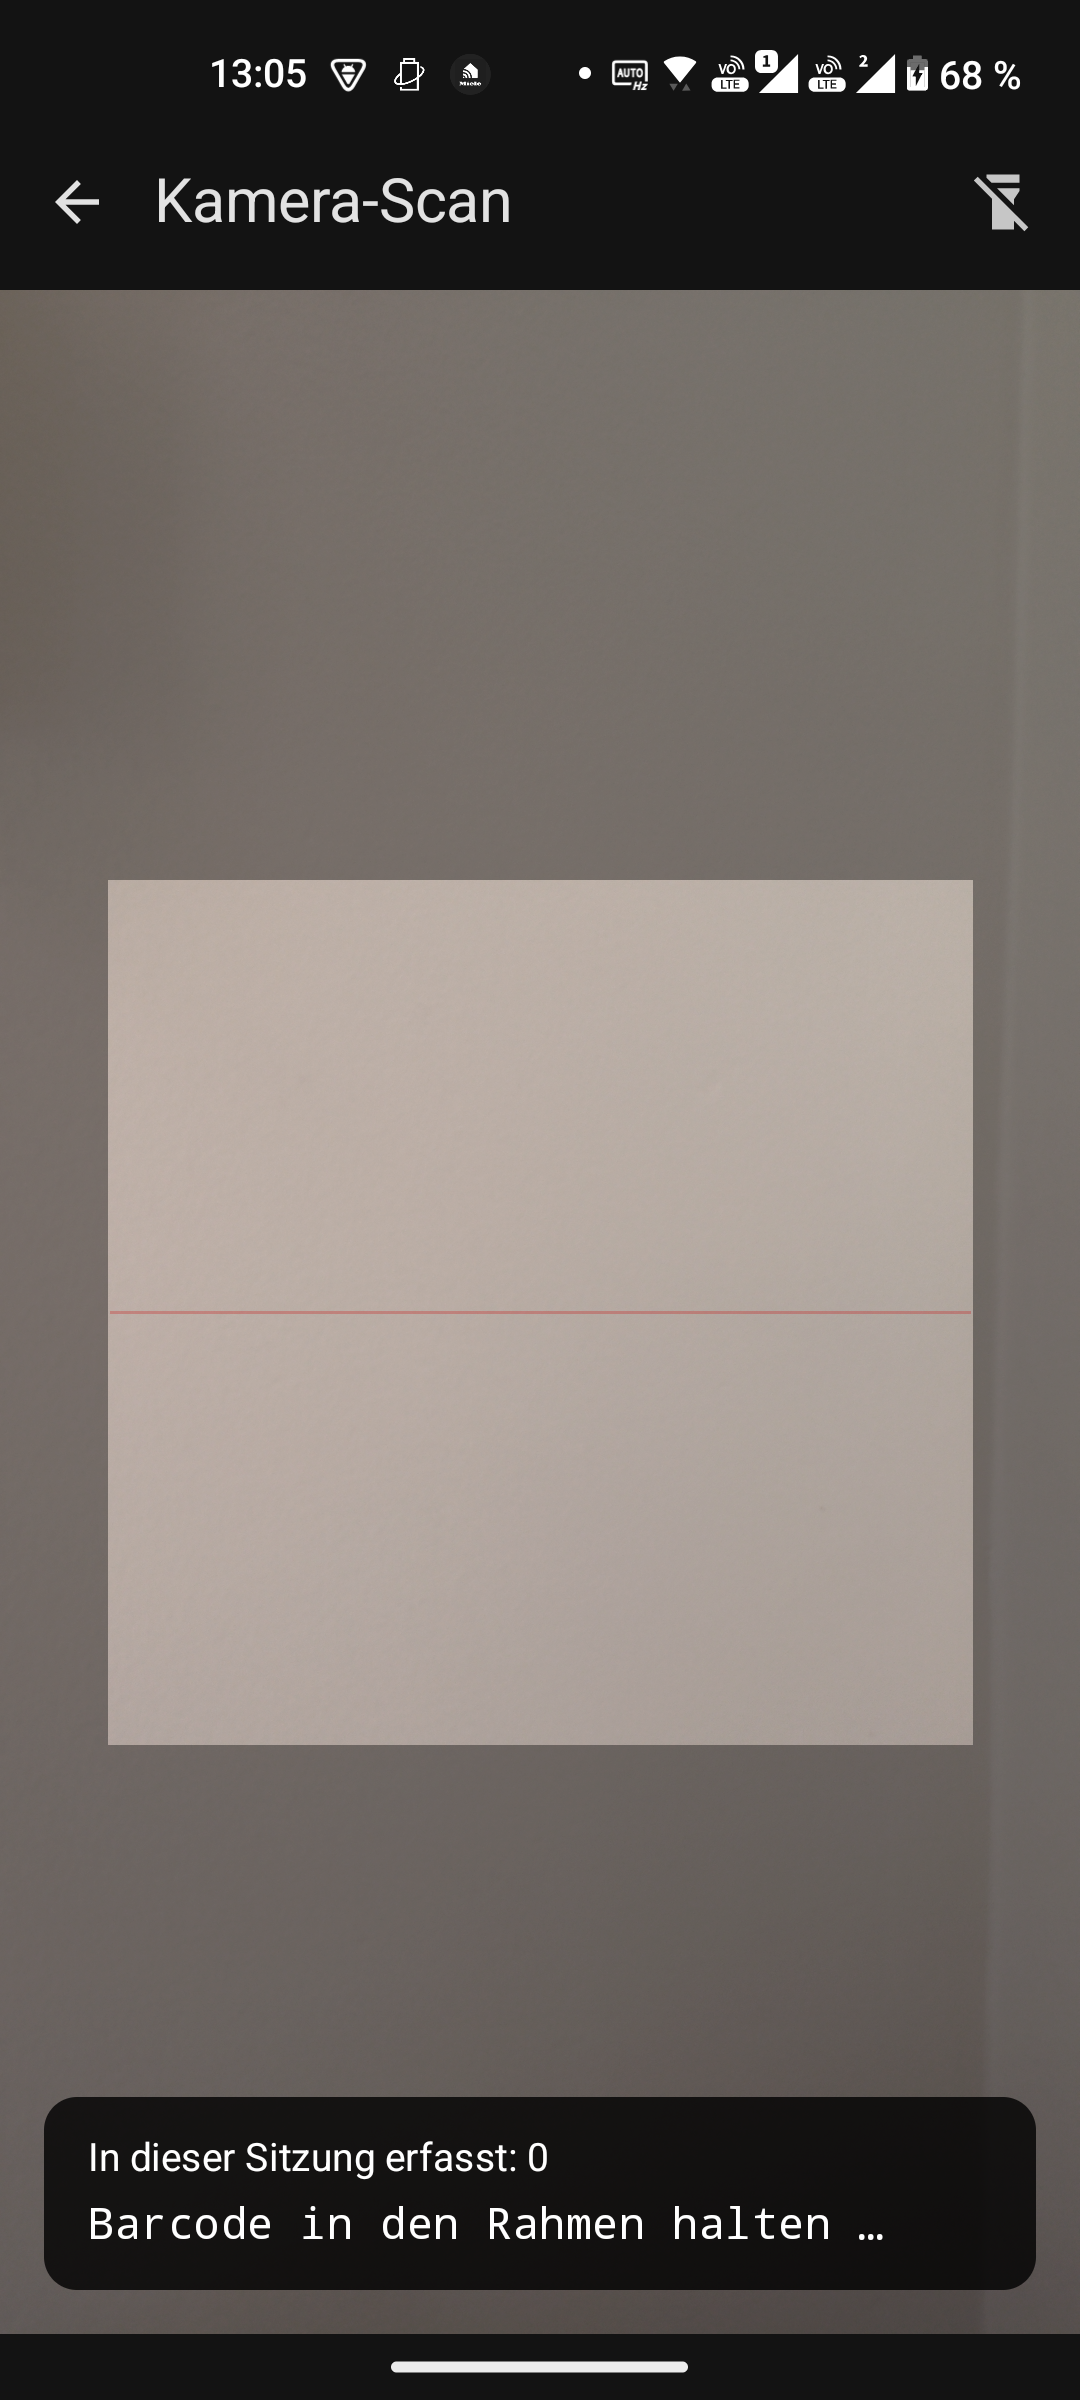
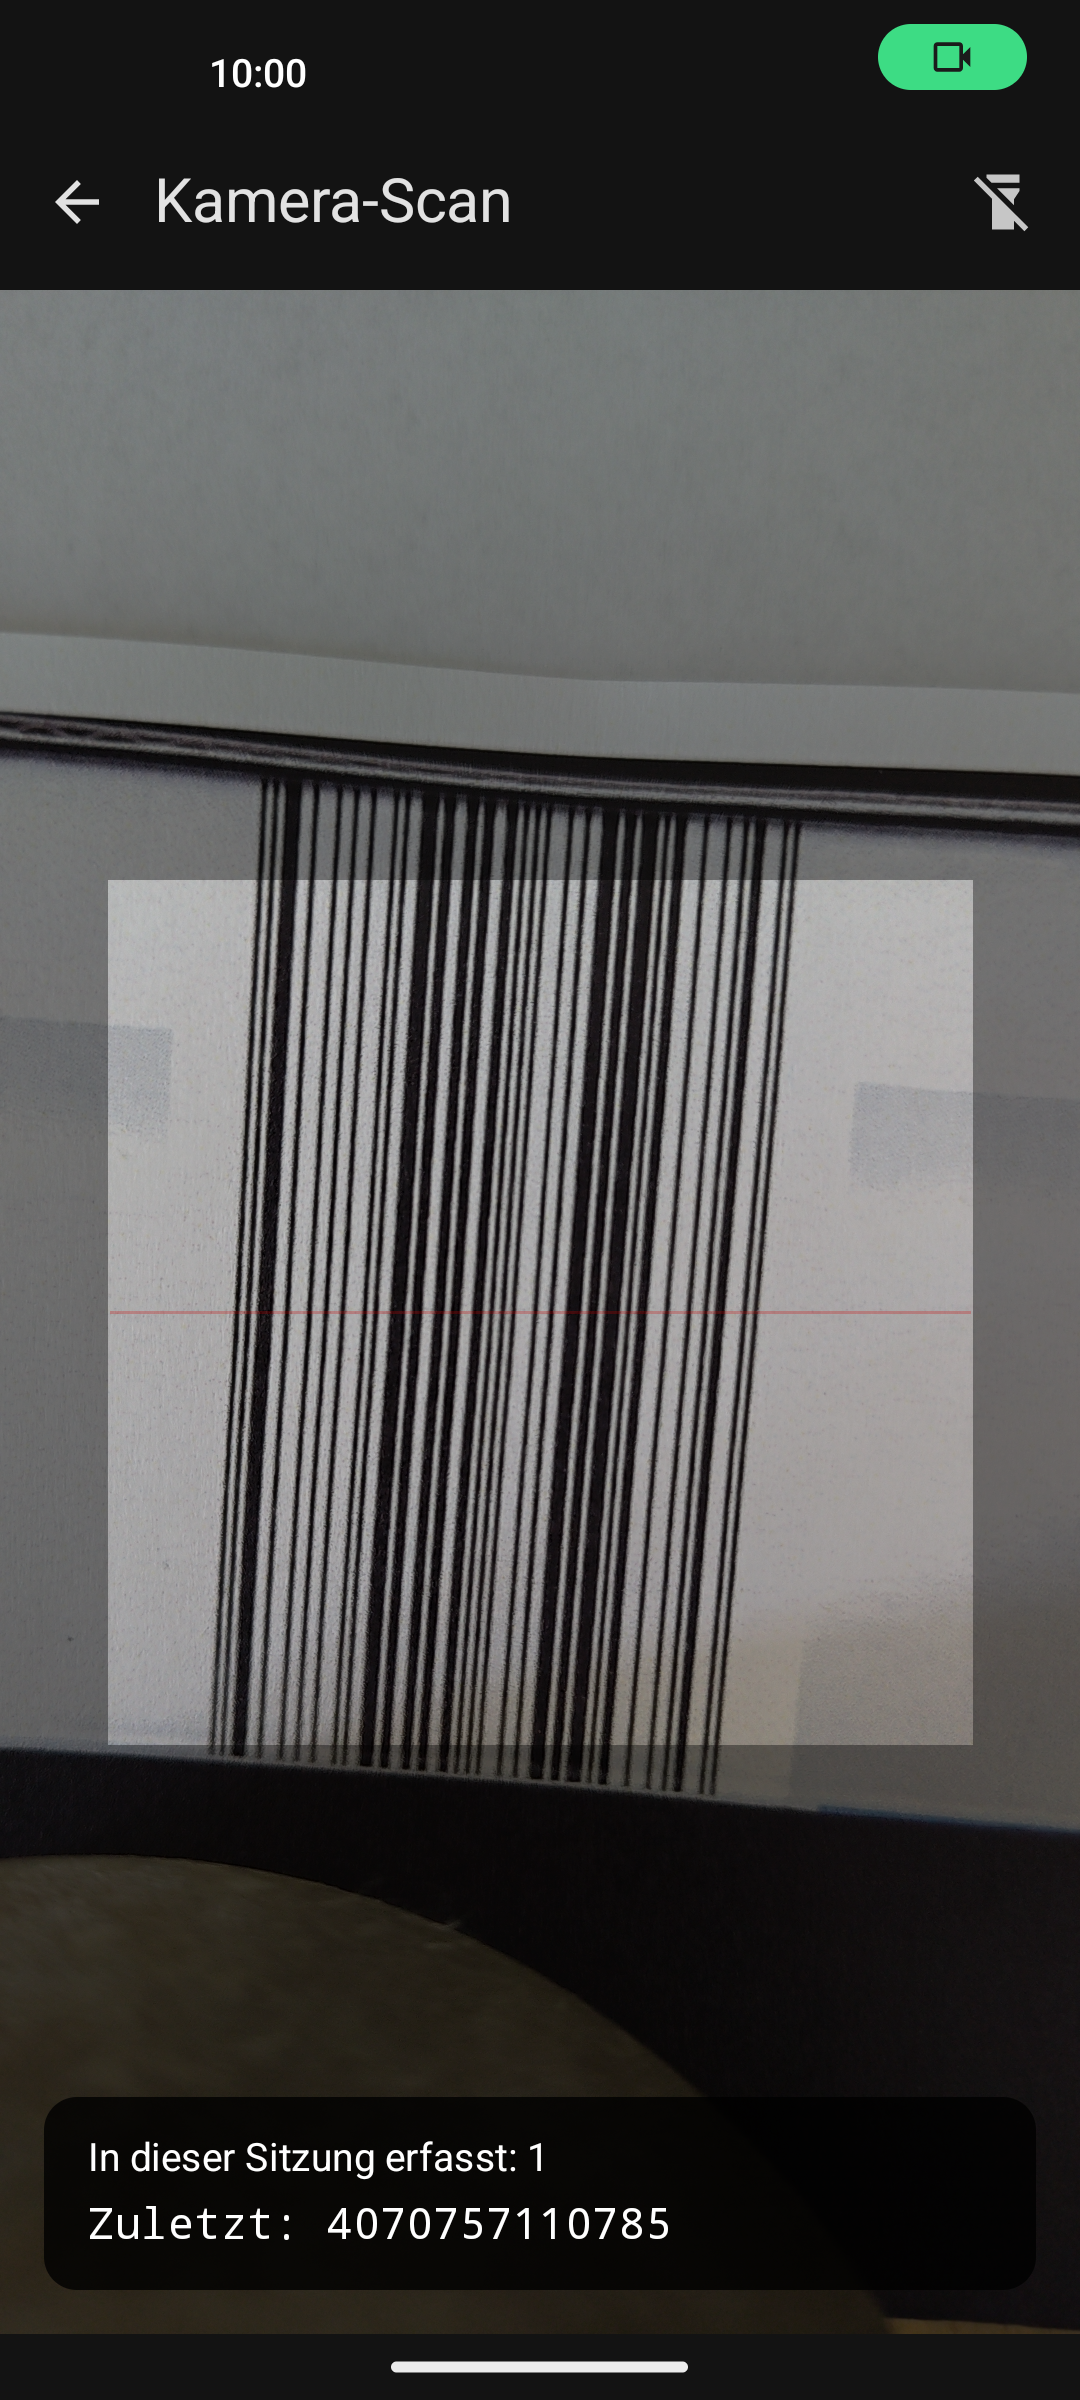
README: Kamera-Scan- und Tablet-Screenshots ergänzt
- Galerie in Smartphone- und Tablet-Abschnitt gegliedert.
- Kamera-Scan-Screenshot (camera.png, aktualisiert) in die Smartphone-Galerie
  aufgenommen.
- Tablet-Screenshots ergänzt: dreispaltiges Raster (quer), Liste mit Seitenleiste
  (hoch) und CSV-Export auf USB-Stick.

diff --git a/README.md b/README.md
@@ -25,24 +25,44 @@ konfigurieren.
 
 ## Screenshots
 
+### Smartphone
+
 <p align="center">
-  <img src="docs/screenshots/splash.png" width="240" alt="Startbildschirm mit App-Icon und Copyright">
+  <img src="docs/screenshots/splash.png" width="220" alt="Startbildschirm mit App-Icon und Copyright">
   &nbsp;&nbsp;
-  <img src="docs/screenshots/main.png" width="240" alt="Inventurliste mit Zeitstempeln, Duplikat-Markierung und Bemerkungen">
+  <img src="docs/screenshots/main.png" width="220" alt="Inventurliste mit Zeitstempeln, Duplikat-Markierung und Bemerkungen">
   &nbsp;&nbsp;
-  <img src="docs/screenshots/manual.png" width="240" alt="Inventarnummer von Hand eingeben">
+  <img src="docs/screenshots/camera.png" width="220" alt="Barcode-Scan mit der Gerätekamera">
 </p>
 
 <p align="center">
-  <img src="docs/screenshots/note.png" width="240" alt="Bemerkung zu einem Scan erfassen">
+  <img src="docs/screenshots/manual.png" width="220" alt="Inventarnummer von Hand eingeben">
   &nbsp;&nbsp;
-  <img src="docs/screenshots/scanner.png" width="240" alt="Scanner verbinden und konfigurieren">
+  <img src="docs/screenshots/note.png" width="220" alt="Bemerkung zu einem Scan erfassen">
   &nbsp;&nbsp;
-  <img src="docs/screenshots/about.png" width="240" alt="Über die App mit Version und Copyright">
+  <img src="docs/screenshots/scanner.png" width="220" alt="Scanner verbinden und konfigurieren">
+  &nbsp;&nbsp;
+  <img src="docs/screenshots/about.png" width="220" alt="Über die App mit Version und Copyright">
 </p>
 
 <p align="center">
-  <i>Startbildschirm &nbsp;·&nbsp; Inventurliste &nbsp;·&nbsp; Nummer von Hand eingeben &nbsp;·&nbsp; Bemerkung erfassen &nbsp;·&nbsp; Scanner verbinden &nbsp;·&nbsp; Über die App</i>
+  <i>Startbildschirm &nbsp;·&nbsp; Inventurliste &nbsp;·&nbsp; Kamera-Scan &nbsp;·&nbsp; Nummer von Hand eingeben &nbsp;·&nbsp; Bemerkung erfassen &nbsp;·&nbsp; Scanner verbinden &nbsp;·&nbsp; Über die App</i>
+</p>
+
+### Tablet
+
+<p align="center">
+  <img src="docs/screenshots/tablet-main.png" width="640" alt="Dreispaltiges Raster auf dem Tablet im Querformat">
+</p>
+
+<p align="center">
+  <img src="docs/screenshots/tablet-panel.png" width="260" alt="Liste mit Seitenleiste im Hochformat">
+  &nbsp;&nbsp;
+  <img src="docs/screenshots/tablet-usb.png" width="260" alt="CSV-Export direkt auf einen angeschlossenen USB-Stick">
+</p>
+
+<p align="center">
+  <i>Dreispaltiges Raster (quer) &nbsp;·&nbsp; Liste mit Seitenleiste (hoch) &nbsp;·&nbsp; CSV-Export auf USB-Stick</i>
 </p>
 
 ## Funktionen
